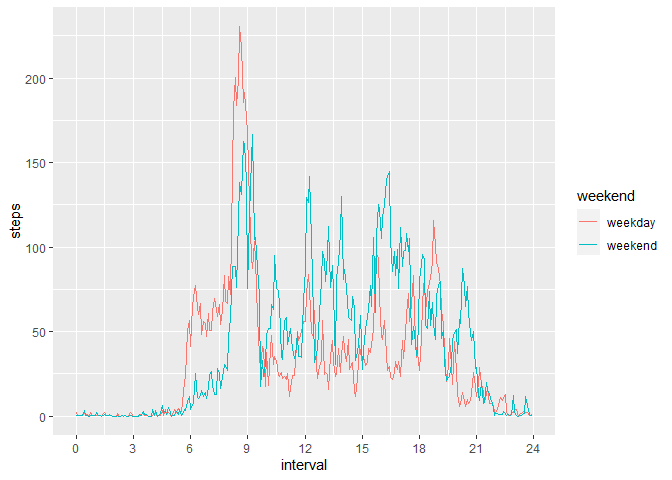
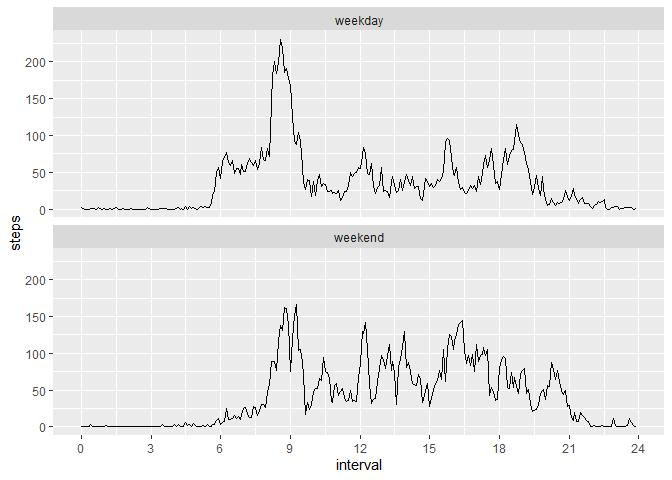
Added histogram, median, and mean after imputing NA values

diff --git a/PA1_template.html b/PA1_template.html
@@ -403,7 +403,21 @@ head(activity_data, 10)</code></pre>
   group_by(date) %&gt;%
   summarize(steps = sum(steps))
 
-ggplot(data = daily_data,
+head(daily_data, 10)</code></pre>
+<pre><code>## # A tibble: 10 x 2
+##    date       steps
+##    &lt;date&gt;     &lt;dbl&gt;
+##  1 2012-10-02   126
+##  2 2012-10-03 11352
+##  3 2012-10-04 12116
+##  4 2012-10-05 13294
+##  5 2012-10-06 15420
+##  6 2012-10-07 11015
+##  7 2012-10-09 12811
+##  8 2012-10-10  9900
+##  9 2012-10-11 10304
+## 10 2012-10-12 17382</code></pre>
+<pre class="r"><code>ggplot(data = daily_data,
        aes(x = steps)) +
   geom_histogram(bins = 20) +
   ylab(&quot;days&quot;) +
@@ -458,7 +472,27 @@ print(paste(&quot;Number of NA rows is&quot;,
   left_join(daily_pattern,
             by = &quot;interval&quot;) %&gt;%
   mutate(steps = coalesce(steps.x, steps.y)) %&gt;%
-  select(steps, date, interval)</code></pre>
+  select(steps, date, interval)
+
+daily_clean &lt;- activity_clean %&gt;%
+  drop_na() %&gt;%
+  group_by(date) %&gt;%
+  summarize(steps = sum(steps))
+
+ggplot(data = daily_clean,
+       aes(x = steps)) +
+  geom_histogram(bins = 20) +
+  ylab(&quot;days&quot;) +
+  scale_y_continuous(breaks = seq(0, 12, by = 2))</code></pre>
[1 lines of base64/hex data omitted]
+<pre class="r"><code>daily_mean &lt;- mean(daily_clean$steps)
+print(paste(&quot;Mean is&quot;,
+            daily_mean))</code></pre>
+<pre><code>## [1] &quot;Mean is 10766.1886792453&quot;</code></pre>
+<pre class="r"><code>daily_median &lt;- median(daily_clean$steps)
+print(paste(&quot;Median is&quot;,
+            daily_median))</code></pre>
+<pre><code>## [1] &quot;Median is 10766.1886792453&quot;</code></pre>
 </div>
 <div id="are-there-differences-in-activity-patterns-between-weekdays-and-weekends" class="section level2">
 <h2>Are there differences in activity patterns between weekdays and weekends?</h2>
@@ -473,10 +507,11 @@ print(paste(&quot;Number of NA rows is&quot;,
 
 ggplot(data = weekend_data) +
   geom_line(aes(x = interval,
-                y = steps,
-                color = weekend)) +
+                y = steps)) +
+  facet_wrap(~weekend,
+             ncol = 1) +
   scale_x_continuous(breaks = seq(0, 24, by = 3))</code></pre>
[2 lines of base64/hex data omitted]
 </div>
 
 

diff --git a/PA1_template.md b/PA1_template.md
@@ -55,6 +55,26 @@ daily_data <- activity_data %>%
   group_by(date) %>%
   summarize(steps = sum(steps))
 
+head(daily_data, 10)
+```
+
+```
+## # A tibble: 10 x 2
+##    date       steps
+##    <date>     <dbl>
+##  1 2012-10-02   126
+##  2 2012-10-03 11352
+##  3 2012-10-04 12116
+##  4 2012-10-05 13294
+##  5 2012-10-06 15420
+##  6 2012-10-07 11015
+##  7 2012-10-09 12811
+##  8 2012-10-10  9900
+##  9 2012-10-11 10304
+## 10 2012-10-12 17382
+```
+
+```r
 ggplot(data = daily_data,
        aes(x = steps)) +
   geom_histogram(bins = 20) +
@@ -143,6 +163,39 @@ activity_clean <- activity_data %>%
             by = "interval") %>%
   mutate(steps = coalesce(steps.x, steps.y)) %>%
   select(steps, date, interval)
+
+daily_clean <- activity_clean %>%
+  drop_na() %>%
+  group_by(date) %>%
+  summarize(steps = sum(steps))
+
+ggplot(data = daily_clean,
+       aes(x = steps)) +
+  geom_histogram(bins = 20) +
+  ylab("days") +
+  scale_y_continuous(breaks = seq(0, 12, by = 2))
+```
+
+![](PA1_template_files/figure-html/unnamed-chunk-4-1.png)<!-- -->
+
+```r
+daily_mean <- mean(daily_clean$steps)
+print(paste("Mean is",
+            daily_mean))
+```
+
+```
+## [1] "Mean is 10766.1886792453"
+```
+
+```r
+daily_median <- median(daily_clean$steps)
+print(paste("Median is",
+            daily_median))
+```
+
+```
+## [1] "Median is 10766.1886792453"
 ```
 
 ## Are there differences in activity patterns between weekdays and weekends?
@@ -160,8 +213,9 @@ weekend_data <- activity_clean %>%
 
 ggplot(data = weekend_data) +
   geom_line(aes(x = interval,
-                y = steps,
-                color = weekend)) +
+                y = steps)) +
+  facet_wrap(~weekend,
+             ncol = 1) +
   scale_x_continuous(breaks = seq(0, 24, by = 3))
 ```
 
